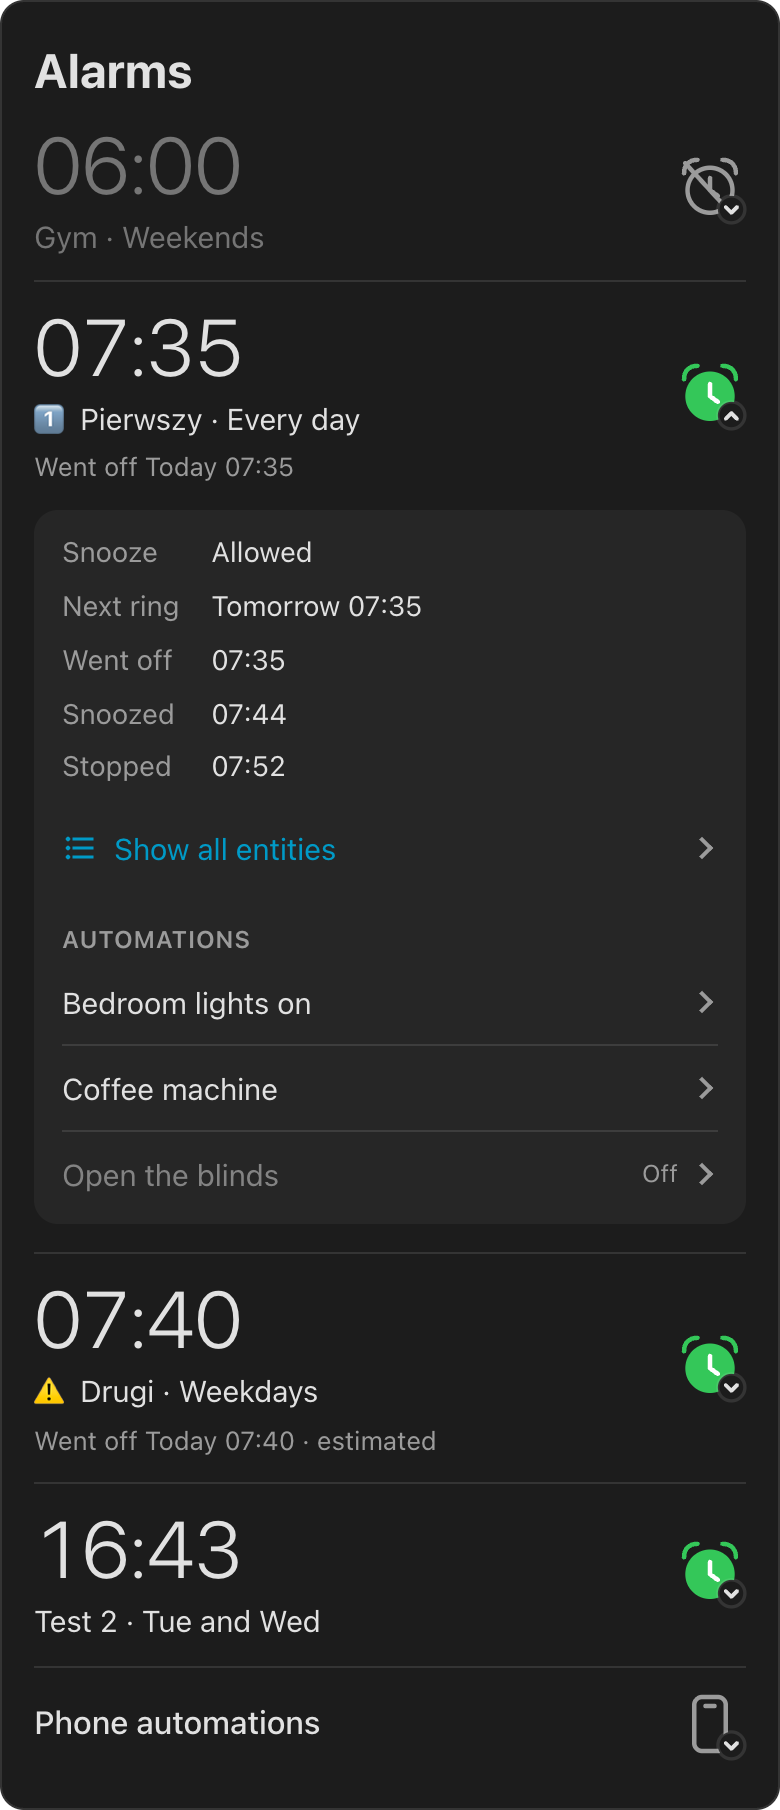
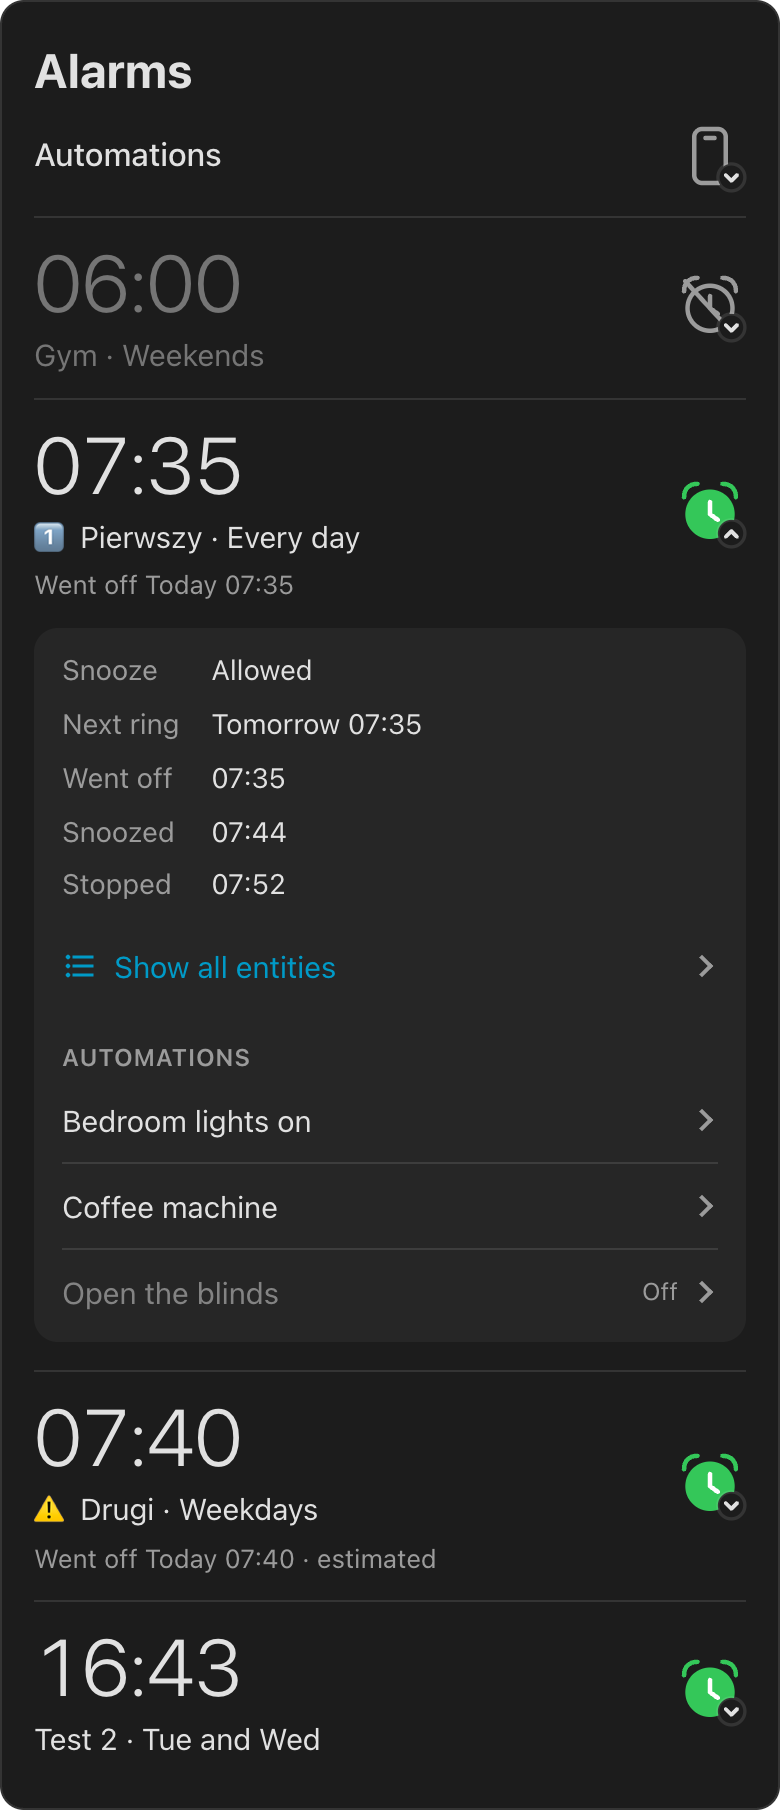
💄 Put the phone's Automations row above its alarms

diff --git a/custom_components/iphone_alarms_sync/frontend/iphone-alarms-card.js b/custom_components/iphone_alarms_sync/frontend/iphone-alarms-card.js
@@ -63,7 +63,7 @@ const STRINGS = {
     no_alarm_automations: "No automations use this alarm.",
     script: "Script",
     automation_off: "Off",
-    phone_automations: "Phone automations",
+    phone_automations: "Automations",
     no_phone_automations: "No automations use this phone.",
     // Named like the phone's event entities.
     any_alarm: "Any alarm",
@@ -118,7 +118,7 @@ const STRINGS = {
     no_alarm_automations: "Żadna automatyzacja nie używa tego budzika.",
     script: "Skrypt",
     automation_off: "Wyłączona",
-    phone_automations: "Automatyzacje telefonu",
+    phone_automations: "Automatyzacje",
     no_phone_automations: "Żadna automatyzacja nie używa tego telefonu.",
     any_alarm: "Dowolny budzik",
     wakeup_alarm: "Budzik pobudki",
@@ -581,6 +581,14 @@ class IPhoneAlarmsCard extends HTMLElement {
     let shown = 0;
     for (const group of groups) {
       let rows = "";
+      // Automations of the whole phone don't belong to one alarm: they get a row of their own, on top
+      // like Sleep | Wake Up in the Clock app. It stays when no alarm is shown, since those automations still run.
+      if (config.show_automations && group.whole) {
+        keys.add(group.phone.id);
+        rows += this._item(group.phone.id, "phone-row", escape(t.phone_automations), "", phoneIcon(), () =>
+          this._phoneDetails(group.phone.id, ctx),
+        );
+      }
       for (const alarm of group.alarms) {
         keys.add(alarm.key);
         shown += 1;
@@ -599,19 +607,6 @@ class IPhoneAlarmsCard extends HTMLElement {
           () => this._alarmDetails(alarm, ctx),
         );
       }
-      // Automations of the whole phone don't belong to one alarm: they get a row of their own,
-      // there even when no alarm is shown, since Sleep and Wake-Up automations still run.
-      if (config.show_automations && group.whole) {
-        keys.add(group.phone.id);
-        rows += this._item(
-          group.phone.id,
-          "phone-row",
-          escape(t.phone_automations),
-          "",
-          phoneIcon(),
-          () => this._phoneDetails(group.phone.id, ctx),
-        );
-      }
       if (!rows) continue;
       // A phone with nothing to show gets no heading either.
       if (groups.length > 1) body += `<div class="phone">${escape(group.phone.name)}</div>`;
@@ -622,7 +617,7 @@ class IPhoneAlarmsCard extends HTMLElement {
       body = `<div class="empty">${escape(t.no_phones)}</div>`;
     } else if (!shown) {
       const empty = config.devices.length || groups.some((group) => group.alarms.length) ? t.no_match : t.no_alarms;
-      body = `<div class="empty">${escape(empty)}</div>${body}`;
+      body += `<div class="empty">${escape(empty)}</div>`;
     }
     const warning = missing ? `<div class="warning">${escape(t.missing(missing))}</div>` : "";
     const title = config.title ? `<h1 class="title">${escape(config.title)}</h1>` : "";

diff --git a/tests/frontend/card.dom.test.js b/tests/frontend/card.dom.test.js
@@ -52,7 +52,7 @@ test("renders again only when what it shows changes", () => {
   const sensor = "sensor.johns_iphone_test_2_alarm_id";
   el.hass = withState(hass, sensor, "x", { ...hass.states[sensor].attributes, hour: 5 });
   ok($(el, ".section") !== first, "rendered");
-  assert.equal(text($$(el, ".time")[0]), "05:43");
+  assert.equal(text($$(el, `${ALARM} .time`)[0]), "05:43");
 });
 
 test("ha-card stays across renders, so card-mod styles survive", () => {
@@ -125,10 +125,10 @@ test("the phone's automations get a row of their own, by subject", async () => {
   };
   const el = mount({}, makeHass({ phones: [phone] }));
   const phoneRow = row(el, PHONE.id);
-  assert.equal(text($(el, ".phone-row .time")), "Phone automations");
+  assert.equal(text($(el, ".phone-row .time")), "Automations");
   assert.equal(text($(el, ".phone-row .subtitle")), "");
-  // Below the alarms, last.
-  assert.equal($$(el, "button.row").at(-1), phoneRow);
+  // Above the alarms, like Sleep | Wake Up in the Clock app.
+  assert.equal($$(el, "button.row").at(0), phoneRow);
   phoneRow.click();
   await flush();
   assert.deepEqual($$(el, ".details .label").map(text), ["Any alarm", "Sleep", "Other"]);
@@ -147,10 +147,10 @@ test("a phone row with nothing says so", async () => {
   assert.equal(text($(el, ".link")), "Show all entities");
 });
 
-test("the phone row stays when no alarm is shown, under the empty message", () => {
+test("the phone row stays when no alarm is shown, above the empty message", () => {
   const none = mount({}, makeHass({ phones: [{ ...PHONE, alarms: [] }] }));
   assert.match(text($(none, ".empty")), /No alarms yet/);
-  ok(row(none, PHONE.id));
+  ok(row(none, PHONE.id).compareDocumentPosition($(none, ".empty")) & Node.DOCUMENT_POSITION_FOLLOWING);
   const allOff = PHONE.alarms.map((alarm) => ({ ...alarm, enabled: false }));
   const hidden = mount({ show_disabled: false }, makeHass({ phones: [{ ...PHONE, alarms: allOff }] }));
   ok(row(hidden, PHONE.id));

diff --git a/docs/dashboard-card.md b/docs/dashboard-card.md
@@ -11,7 +11,7 @@ The **iPhone Alarms** card lists your alarms the way the Clock app does. It is r
 
 - **Alarms**: every alarm with its time, label and repeat days, and below them when it last went off. The clock on the right is green when the alarm is on, and crossed out, with grayed-out text, when it is off. The arrow in its corner shows whether the alarm is open.
 - **Tap an alarm** for the rest: whether snooze is allowed, when it rings next, when it last went off, was snoozed and was stopped, and the automations and scripts that use it. Tap an automation to open it. Admins also get **Show all entities**, the alarm's device page in Settings with its entities and history.
-- **Phone automations**, the row under a phone's alarms, lists what uses the whole phone rather than one alarm, grouped by *Any alarm*, *Wake-Up alarm* and *Sleep*.
+- **Automations**, the row with a phone icon above a phone's alarms, lists what uses the whole phone rather than one alarm, grouped by *Any alarm*, *Wake-Up alarm* and *Sleep*.
 
 ## Add the card
 
@@ -36,7 +36,7 @@ All of them can be set in the card editor.
 | `title` | none | A title above the list, such as `Alarms`. Leave it out for a more compact card. |
 | `devices` | all | Phones or single alarms to show. A phone shows all its alarms. An alarm shows only that alarm. |
 | `show_disabled` | `true` | Show alarms that are off. |
-| `show_automations` | `true` | Tapping an alarm shows the automations and scripts that use it. Adds the *Phone automations* row. |
+| `show_automations` | `true` | Tapping an alarm shows the automations and scripts that use it. Adds the *Automations* row of the phone. |
 | `show_last_events` | `true` | Tapping an alarm shows when it last went off, was snoozed and was stopped. |
 
 **Examples**
@@ -82,7 +82,7 @@ target:
 ## Limits
 
 - **Language**: the card and its editor follow the language of your Home Assistant profile. They come in English and Polish; any other language shows English. To add one, see [Adding a language](../CONTRIBUTING.md#adding-a-language).
-- **Automations of an alarm**: the card finds every automation and script that uses the alarm's device or one of its entities, through Home Assistant's own search. The *Phone automations* row does the same for the phone's device. An automation lands under the phone's event entity it uses. Device triggers on the phone name no entity, so they land under *Other*. The row shows only when the card shows the whole phone, not when you picked single alarms.
+- **Automations of an alarm**: the card finds every automation and script that uses the alarm's device or one of its entities, through Home Assistant's own search. The *Automations* row above the alarms does the same for the phone's device. An automation lands under the phone's event entity it uses. Device triggers on the phone name no entity, so they land under *Other*. The row shows only when the card shows the whole phone, not when you picked single alarms.
 - **An alarm is missing**: it needs its **Alarm ID** sensor. If you disabled that entity, the card can't read the alarm.
 
 ## Change the look
